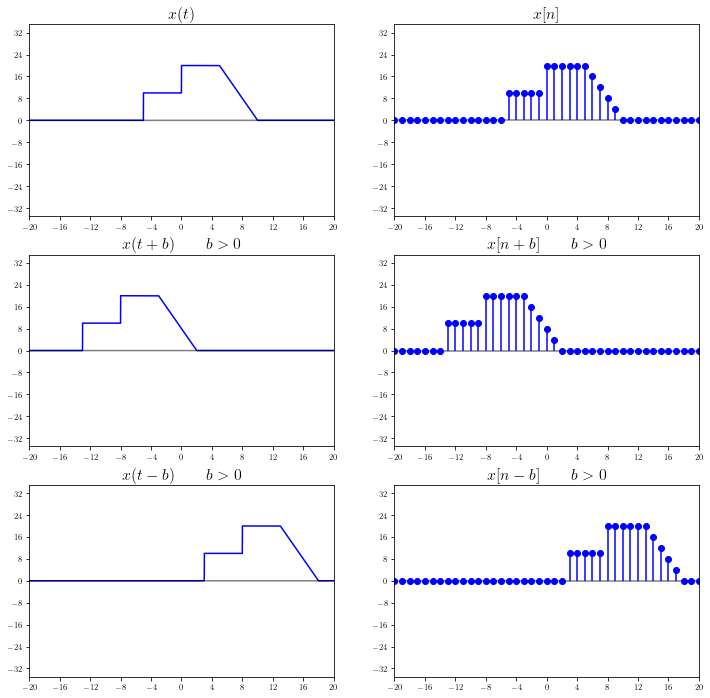
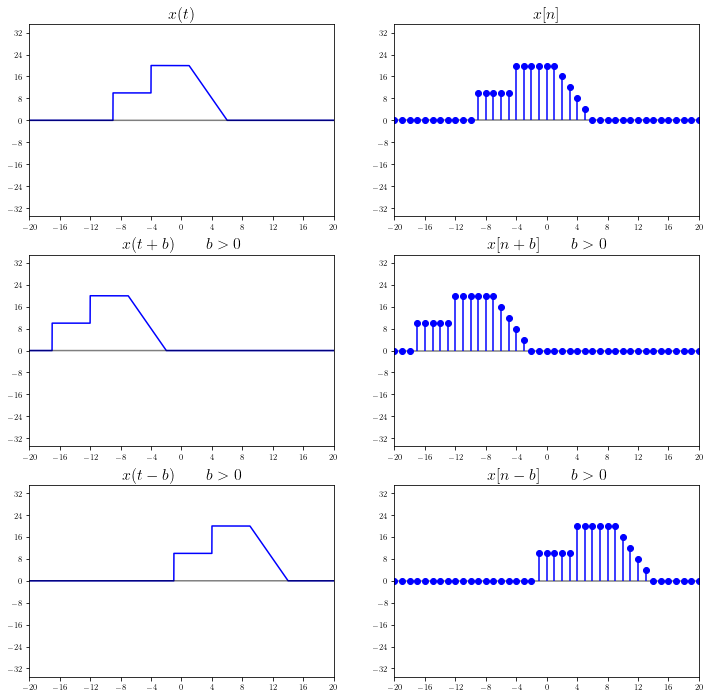
Update documentation

diff --git a/courses/dsp/systems.html b/courses/dsp/systems.html
@@ -449,7 +449,7 @@ title="Print to PDF"
     <span class="p">(</span><span class="mi">20</span><span class="p">,</span> <span class="p">(</span><span class="n">t</span><span class="o">&gt;=</span><span class="mi">0</span><span class="p">)</span><span class="o">&amp;</span><span class="p">(</span><span class="n">t</span><span class="o">&lt;</span><span class="mi">5</span><span class="p">)),</span> 
     <span class="p">(</span><span class="mi">40</span><span class="o">-</span><span class="mi">4</span><span class="o">*</span><span class="n">t</span><span class="p">,</span> <span class="p">(</span><span class="n">t</span><span class="o">&gt;=</span><span class="mi">5</span><span class="p">)</span><span class="o">&amp;</span><span class="p">(</span><span class="n">t</span><span class="o">&lt;</span><span class="mi">10</span><span class="p">)),</span> 
     <span class="p">(</span><span class="mi">0</span><span class="p">,</span> <span class="n">t</span><span class="o">&gt;=</span><span class="mi">10</span><span class="p">)</span>
-<span class="p">)</span>
+<span class="p">)</span><span class="o">.</span><span class="n">subs</span><span class="p">(</span><span class="n">t</span><span class="p">,</span> <span class="n">t</span><span class="o">+</span><span class="mi">4</span><span class="p">)</span>
 </pre></div>
 </div>
 </div>
